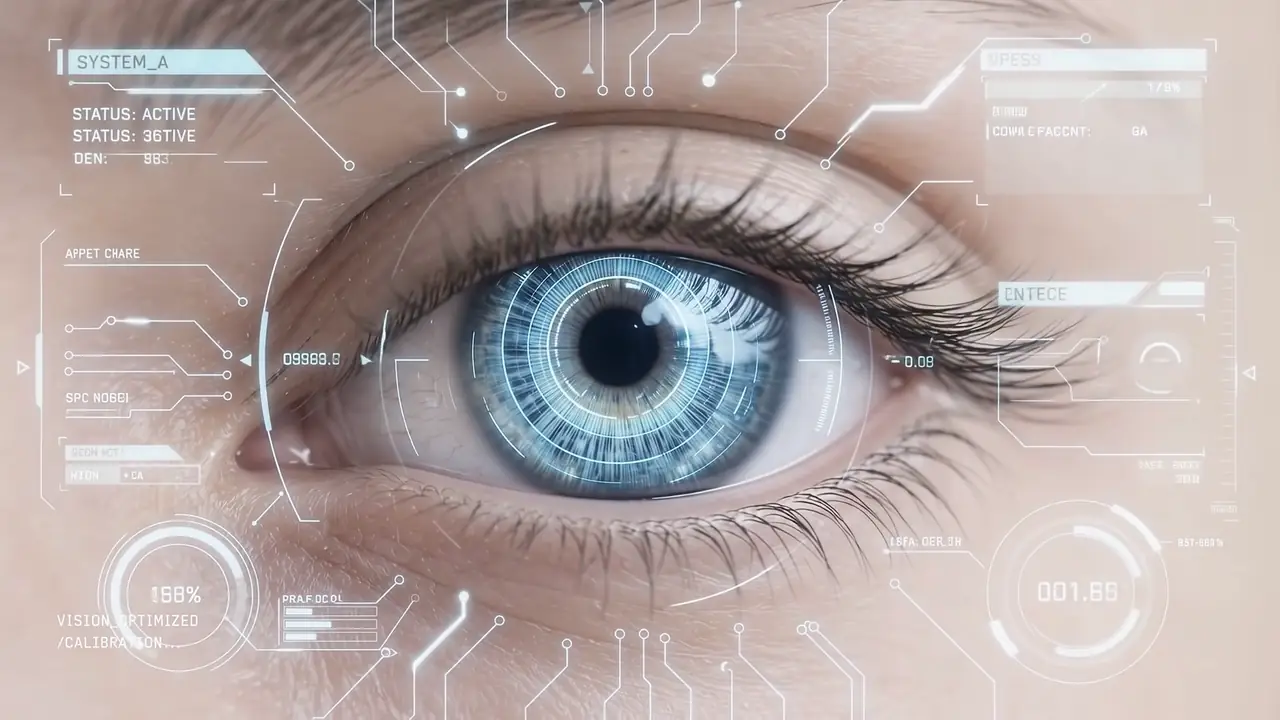
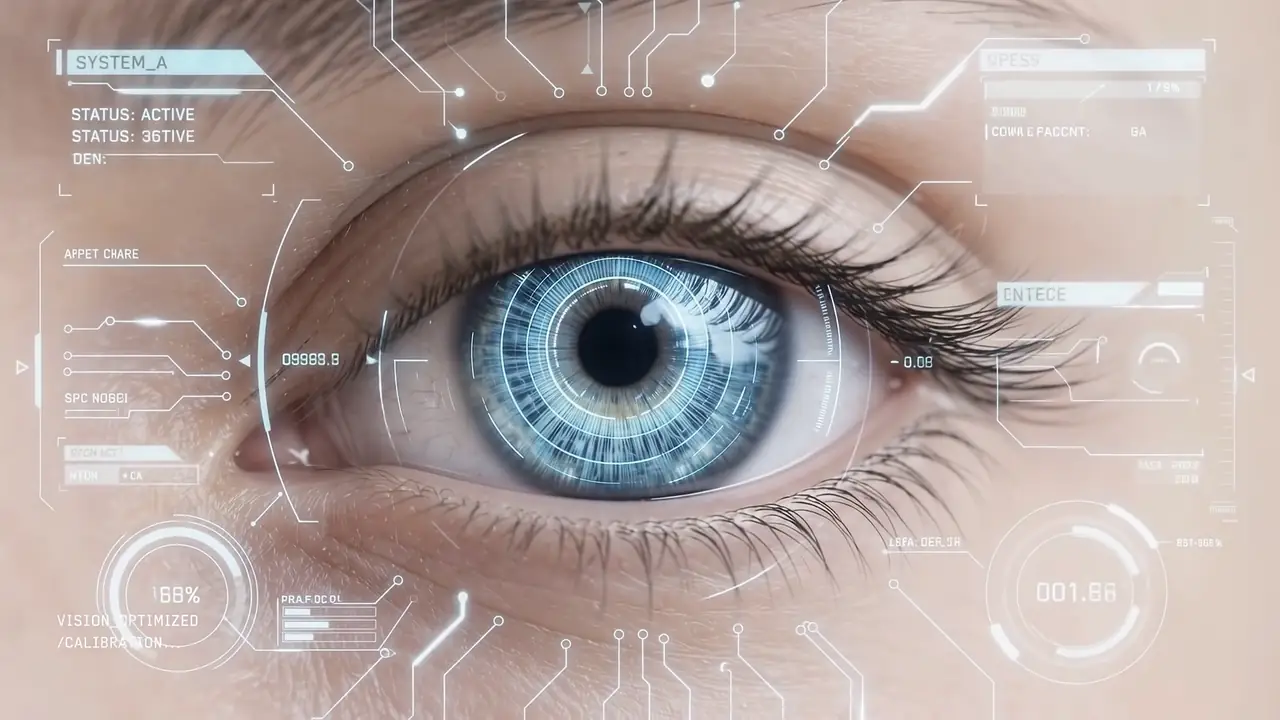
1

diff --git a/index.html b/index.html
@@ -5,7 +5,7 @@
   <meta name="viewport" content="width=device-width, initial-scale=1">
   <title>Foresite — Modern websites, built to be found</title>
   <meta name="description" content="Foresite rebuilds outdated small business websites and sets them up to be found — by search engines, by Google Maps, and by AI assistants. Flat-fee builds for Australian local businesses.">
-  <link rel="preload" as="image" href="frames/eye_human.webp?v=5" fetchpriority="high">
+  <link rel="preload" as="image" href="frames/eye_human.webp?v=6" fetchpriority="high">
   <link rel="preconnect" href="https://fonts.googleapis.com">
   <link rel="preconnect" href="https://fonts.gstatic.com" crossorigin>
   <link rel="stylesheet" href="https://fonts.googleapis.com/css2?family=Archivo:wght@400;500;700&family=IBM+Plex+Mono:wght@400;500&family=Newsreader:ital,opsz,wght@1,6..72,300;1,6..72,400&display=swap">
@@ -603,6 +603,67 @@
   }
   footer p{ margin: 0; color: var(--text-3); font-size: var(--step-0); line-height: 1.65; }
 
+  /* --- glass panel behind the hero paragraph ------------------------------
+     Sits over the footage like a HUD readout. It replaces the text halo on
+     this paragraph: with a panel behind it the halo just muddies the edges.
+     backdrop-filter is doing the frosting, so there is a plain-tint fallback
+     for browsers without it - without one the text would sit on 34% white. */
+  .stage-aside p{
+    padding: 1.15rem 1.35rem;
+    background: rgba(255,255,255,0.30);
+    -webkit-backdrop-filter: blur(16px) saturate(1.2);
+    backdrop-filter: blur(16px) saturate(1.2);
+    border: 1px solid rgba(255,255,255,0.6);
+    box-shadow: 0 1px 26px rgba(110,95,85,0.10);
+    text-shadow: none;
+  }
+  @supports not ((backdrop-filter: blur(2px)) or (-webkit-backdrop-filter: blur(2px))){
+    .stage-aside p{ background: rgba(250,247,243,0.88); }
+  }
+
+  /* --- interactive timeline ------------------------------------------------
+     A rail of dates; hovering, clicking, tapping or arrowing to one shows its
+     detail below. Every paragraph stays in the DOM whichever is showing, so
+     nothing is hidden from crawlers or AI - only from the eye.
+     Below 700px there is no hover and no room for eight labels, so the rail is
+     dropped and every entry is simply stacked and readable. */
+  .tl{ display: grid; gap: 2.2rem; }
+  .tl-rail{ position: relative; display: flex; padding-top: 0.5rem; }
+  .tl-rail::before{
+    content: ""; position: absolute; left: 0; right: 0; top: 0.85rem;
+    height: 1px; background: var(--line);
+  }
+  .tl-dot{
+    flex: 1 1 0; min-width: 0;
+    display: grid; justify-items: center; gap: 0.6rem;
+    padding: 0 0.2rem; border: 0; background: none; cursor: pointer;
+    font: inherit; color: var(--text-3);
+    -webkit-tap-highlight-color: transparent;
+  }
+  .tl-dot .mark{
+    width: 0.7rem; height: 0.7rem; border-radius: 50%;
+    background: var(--bg); border: 1px solid var(--line);
+    transition: transform 0.2s ease, background-color 0.2s ease, border-color 0.2s ease;
+  }
+  .tl-dot[data-accent] .mark{ border-color: var(--signal-dim); }
+  .tl-dot .yr{
+    font-size: 0.7rem; letter-spacing: 0.09em; text-transform: uppercase;
+    white-space: nowrap; transition: color 0.2s ease;
+  }
+  .tl-dot:hover .mark{ border-color: var(--signal); }
+  .tl-dot:focus-visible{ outline: 2px solid var(--signal); outline-offset: 4px; }
+  .tl-dot[aria-selected="true"] .mark{
+    background: var(--signal); border-color: var(--signal); transform: scale(1.4);
+  }
+  .tl-dot[aria-selected="true"] .yr{ color: var(--text); }
+
+  .tl-stage{ min-height: 12rem; }
+  .tl-panel{ display: none; }
+  .tl-panel.is-active{ display: grid; gap: 0.7rem; max-width: 62ch; }
+  .tl-panel .yr{ color: var(--signal); font-size: var(--step-0); letter-spacing: 0.12em; text-transform: uppercase; }
+  .tl-panel h3{ margin: 0; font-size: var(--step-3); font-weight: 700; letter-spacing: -0.015em; line-height: 1.25; }
+  .tl-panel p{ margin: 0; color: var(--text-2); font-size: var(--step-2); line-height: 1.65; }
+
   /* ---------------------------------------------------------------
      Media queries live at the END of the stylesheet on purpose. The rules
      above are declared twice - a base pass and a components pass - and CSS
@@ -628,6 +689,11 @@
     .masthead{ flex-direction: column; gap: 1rem; }
     .masthead nav{ justify-items: start; grid-auto-flow: column; gap: 1.1rem; }
     .stage-foot{ display: none; }
+    /* No hover on touch, and no room for eight labels: drop the rail and
+       show every entry stacked instead. */
+    .tl-rail{ display: none; }
+    .tl-stage{ min-height: 0; display: grid; gap: 2rem; }
+    .tl-panel{ display: grid; gap: 0.55rem; }
     .tiers{ grid-template-columns: 1fr; }
     .closer{ grid-template-columns: 1fr; }
     #contact-form{ width: 100%; }
@@ -717,46 +783,90 @@
   </div>
   <div class="band-body">
     <p class="lede">Every jump in technology changed how people research and buy — here's both sides of that story, side by side.</p>
-    <div class="timeline">
-      <div class="timeline-item">
-        <span class="timeline-year mono">1994–95</span>
+    <div class="tl" id="tl">
+      <div class="tl-rail" role="tablist" aria-label="How the way people research and buy has changed">
+        <button class="tl-dot" type="button" role="tab" id="tl-t0" aria-controls="tl-p0"
+                aria-selected="false" tabindex="-1">
+          <span class="mark" aria-hidden="true"></span>
+          <span class="yr mono">1994–95</span>
+        </button>
+        <button class="tl-dot" type="button" role="tab" id="tl-t1" aria-controls="tl-p1"
+                aria-selected="false" tabindex="-1">
+          <span class="mark" aria-hidden="true"></span>
+          <span class="yr mono">1998</span>
+        </button>
+        <button class="tl-dot" type="button" role="tab" id="tl-t2" aria-controls="tl-p2"
+                aria-selected="false" tabindex="-1">
+          <span class="mark" aria-hidden="true"></span>
+          <span class="yr mono">2007</span>
+        </button>
+        <button class="tl-dot" type="button" role="tab" id="tl-t3" aria-controls="tl-p3"
+                aria-selected="false" tabindex="-1">
+          <span class="mark" aria-hidden="true"></span>
+          <span class="yr mono">2011–16</span>
+        </button>
+        <button class="tl-dot" type="button" role="tab" id="tl-t4" aria-controls="tl-p4"
+                aria-selected="false" tabindex="-1">
+          <span class="mark" aria-hidden="true"></span>
+          <span class="yr mono">Nov 2022</span>
+        </button>
+        <button class="tl-dot" type="button" role="tab" id="tl-t5" aria-controls="tl-p5"
+                aria-selected="false" tabindex="-1">
+          <span class="mark" aria-hidden="true"></span>
+          <span class="yr mono">May 2024</span>
+        </button>
+        <button class="tl-dot" type="button" role="tab" id="tl-t6" aria-controls="tl-p6"
+                aria-selected="false" tabindex="-1" data-accent="1">
+          <span class="mark" aria-hidden="true"></span>
+          <span class="yr mono">Now</span>
+        </button>
+        <button class="tl-dot" type="button" role="tab" id="tl-t7" aria-controls="tl-p7"
+                aria-selected="false" tabindex="-1" data-accent="1">
+          <span class="mark" aria-hidden="true"></span>
+          <span class="yr mono">Next</span>
+        </button>
+      </div>
+      <div class="tl-stage">
+      <div class="tl-panel" role="tabpanel" id="tl-p0" aria-labelledby="tl-t0">
+        <span class="yr mono">1994–95</span>
         <h3>Amazon &amp; eBay — trust is still the barrier</h3>
         <p>Online shopping becomes possible for the first time, but most people won't type a credit card number into a website yet. Buying research still happens offline — word of mouth, the phone book, driving past a shop.</p>
       </div>
-      <div class="timeline-item">
-        <span class="timeline-year mono">1998</span>
+      <div class="tl-panel" role="tabpanel" id="tl-p1" aria-labelledby="tl-t1">
+        <span class="yr mono">1998</span>
         <h3>Google's PageRank — the tab-comparison habit begins</h3>
         <p>Search becomes ten ranked blue links instead of a directory. A new buying habit is born and stays dominant for the next 15+ years: open several tabs, compare them side by side, decide yourself.</p>
       </div>
-      <div class="timeline-item">
-        <span class="timeline-year mono">2007</span>
+      <div class="tl-panel" role="tabpanel" id="tl-p2" aria-labelledby="tl-t2">
+        <span class="yr mono">2007</span>
         <h3>The iPhone — research goes wherever you go</h3>
         <p>Search moves into people's pockets. Buying decisions stop happening only at a desk — "near me" searches let people compare options mid-errand, standing in a car park.</p>
       </div>
-      <div class="timeline-item">
-        <span class="timeline-year mono">2011–16</span>
+      <div class="tl-panel" role="tabpanel" id="tl-p3" aria-labelledby="tl-t3">
+        <span class="yr mono">2011–16</span>
         <h3>Siri &amp; Alexa — one answer starts to feel normal</h3>
         <p>Voice assistants get people used to asking out loud and accepting a single spoken answer for simple questions — the first real crack in "always compare a list."</p>
       </div>
-      <div class="timeline-item">
-        <span class="timeline-year mono">Nov 2022</span>
+      <div class="tl-panel" role="tabpanel" id="tl-p4" aria-labelledby="tl-t4">
+        <span class="yr mono">Nov 2022</span>
         <h3>ChatGPT — typing keywords becomes talking</h3>
         <p>Tens of millions of people start describing what they actually need in plain sentences and getting a direct answer back — instead of guessing the right search keywords.</p>
       </div>
-      <div class="timeline-item">
-        <span class="timeline-year mono">May 2024</span>
+      <div class="tl-panel" role="tabpanel" id="tl-p5" aria-labelledby="tl-t5">
+        <span class="yr mono">May 2024</span>
         <h3>Google's AI Overviews — research starts skipping the click</h3>
         <p>An AI-written summary is placed above Google's results list. A 2025 Pew Research study (US) found people click through to an actual website just 8% of the time when an AI summary is shown, versus 15% without one — real research now often happens without ever visiting a business's site.</p>
       </div>
-      <div class="timeline-item is-now">
-        <span class="timeline-year mono">Now</span>
+      <div class="tl-panel" role="tabpanel" id="tl-p6" aria-labelledby="tl-t6">
+        <span class="yr mono">Now</span>
         <h3>AI-first search — the decision is made before you know it</h3>
         <p>37% of consumers now start their search with an AI tool instead of Google. In B2B buying, research firm 6sense found the typical decision is already about 70% complete before a business is even contacted. Increasingly, you're not being compared — you're being confirmed, or skipped.</p>
       </div>
-      <div class="timeline-item is-next">
-        <span class="timeline-year mono">What's next</span>
+      <div class="tl-panel" role="tabpanel" id="tl-p7" aria-labelledby="tl-t7">
+        <span class="yr mono">What's next</span>
         <h3>Agentic AI — comparison disappears entirely</h3>
         <p>AI assistants are starting to move from recommending businesses to acting on people's behalf — comparing, booking and buying automatically. The person may never actively "choose" at all. A business an AI agent can't read or trust won't just rank lower. It won't be part of the conversation.</p>
+      </div>
       </div>
     </div>
   </div>
@@ -1059,9 +1169,12 @@
   // Fraction of the frame's short side that fades out at each edge.
   var FEATHER = 0.03;
 
-  var BLINK_N = 28, GAZE_N = 19, EXPL_N = 27;
+  var BLINK_N = 30, GAZE_N = 19, EXPL_N = 27;
   var BLINK_CUT = 18;                  // frames 0-23 are the blink itself
-  var MS_BLINK = 55, MS_SETTLE = 70;
+  // MS_SETTLE covers the bridge between the blink and the gaze run. It is
+  // deliberately quick: the visitor has no control until it finishes, so a
+  // leisurely one makes the hero feel like it is playing at them.
+  var MS_BLINK = 55, MS_SETTLE = 32;
   var EXPL_ENDS_AT = 0.75;
   var EXPL_FADE = 3;                   // indices over which the burst fades in
 
@@ -1073,7 +1186,7 @@
   // Bump this whenever the frame files change. The filenames stay the same
   // between versions, so without it browsers and Vercel's CDN happily serve
   // last week's images with this week's code.
-  var P = 'frames/', V = '?v=5';
+  var P = 'frames/', V = '?v=6';
   function img(src) { var i = new Image(); i.decoding = 'async'; i.src = P + src + V; return i; }
   function pad(n) { return ('00' + n).slice(-3); }
 
@@ -1316,5 +1429,47 @@
 })();
 </script>
 
+<script>
+/* Interactive timeline: hover, click, tap or arrow-key through the dates.
+   Standard tablist semantics, so screen readers and keyboards get it too.
+   On narrow screens the rail is hidden by CSS and every panel is shown, so
+   this quietly does nothing there. */
+(function () {
+  var tl = document.getElementById('tl');
+  if (!tl) return;
+  var tabs   = Array.prototype.slice.call(tl.querySelectorAll('.tl-dot'));
+  var panels = Array.prototype.slice.call(tl.querySelectorAll('.tl-panel'));
+  if (!tabs.length || tabs.length !== panels.length) return;
+
+  function select(i, moveFocus) {
+    for (var j = 0; j < tabs.length; j++) {
+      var on = j === i;
+      tabs[j].setAttribute('aria-selected', on ? 'true' : 'false');
+      tabs[j].tabIndex = on ? 0 : -1;
+      panels[j].classList.toggle('is-active', on);
+    }
+    if (moveFocus) tabs[i].focus();
+  }
+
+  tabs.forEach(function (tab, i) {
+    tab.addEventListener('click', function () { select(i); });
+    tab.addEventListener('mouseenter', function () { select(i); });
+    tab.addEventListener('focus', function () { select(i); });
+    tab.addEventListener('keydown', function (e) {
+      var n = null, k = e.key;
+      if (k === 'ArrowRight' || k === 'ArrowDown') n = (i + 1) % tabs.length;
+      else if (k === 'ArrowLeft' || k === 'ArrowUp') n = (i - 1 + tabs.length) % tabs.length;
+      else if (k === 'Home') n = 0;
+      else if (k === 'End') n = tabs.length - 1;
+      if (n !== null) { e.preventDefault(); select(n, true); }
+    });
+  });
+
+  // Open on "Now" - the entry that carries the argument - not on 1994.
+  var start = 0;
+  for (var i = 0; i < tabs.length; i++) if (tabs[i].hasAttribute('data-accent')) { start = i; break; }
+  select(start);
+})();
+</script>
 </body>
 </html>
